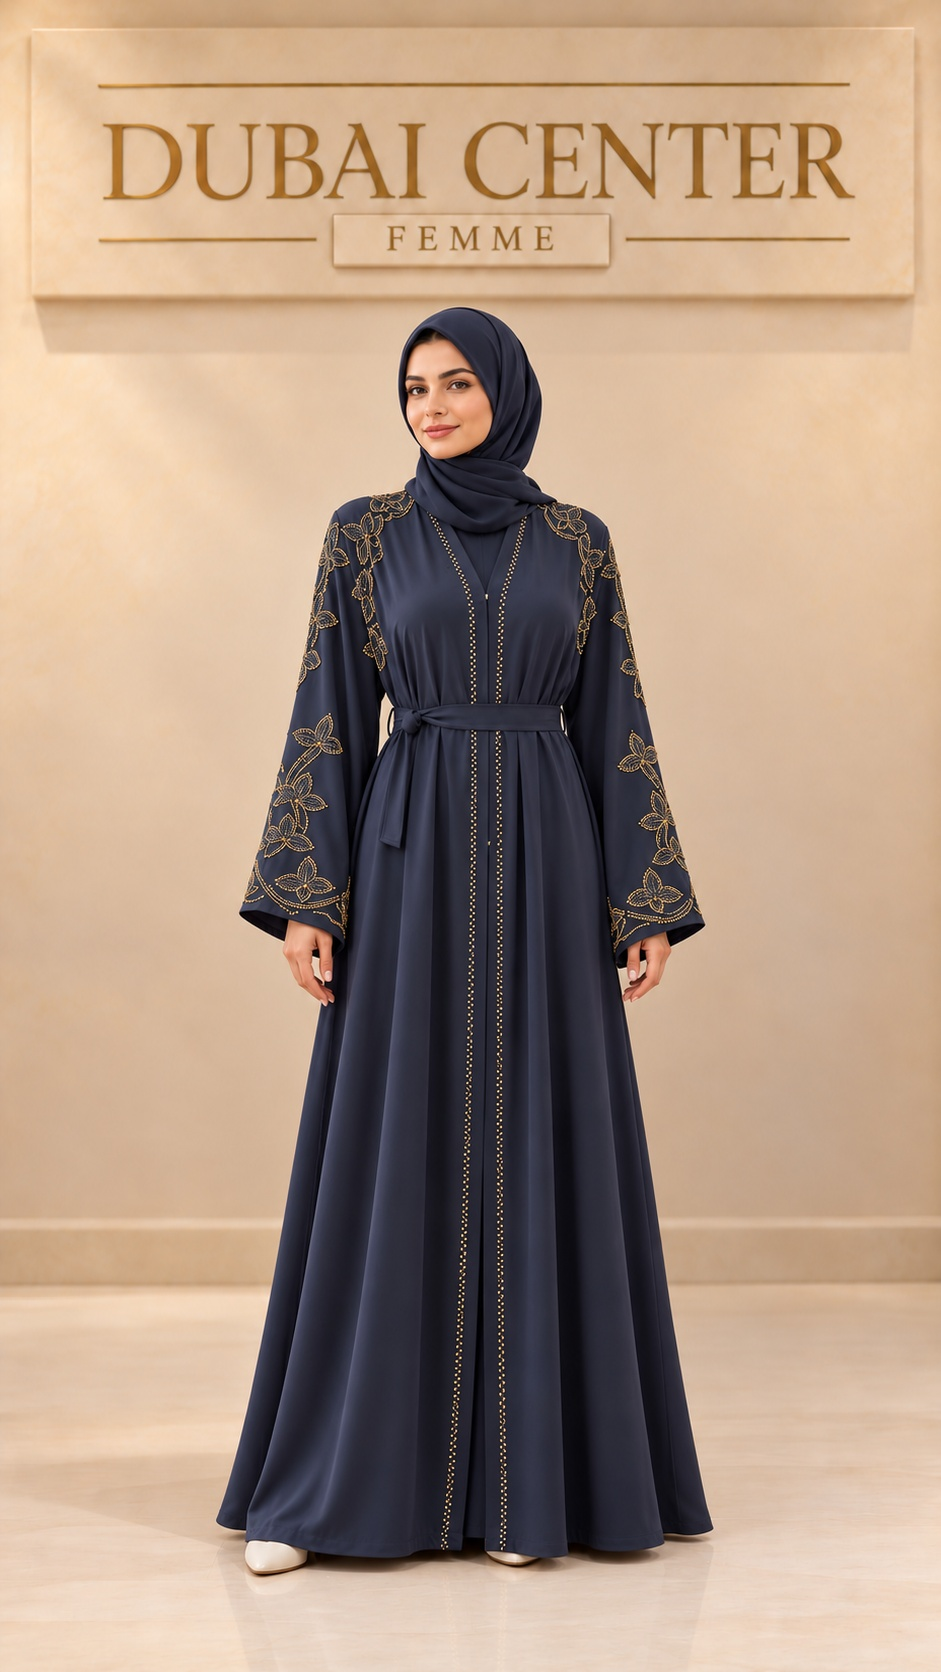
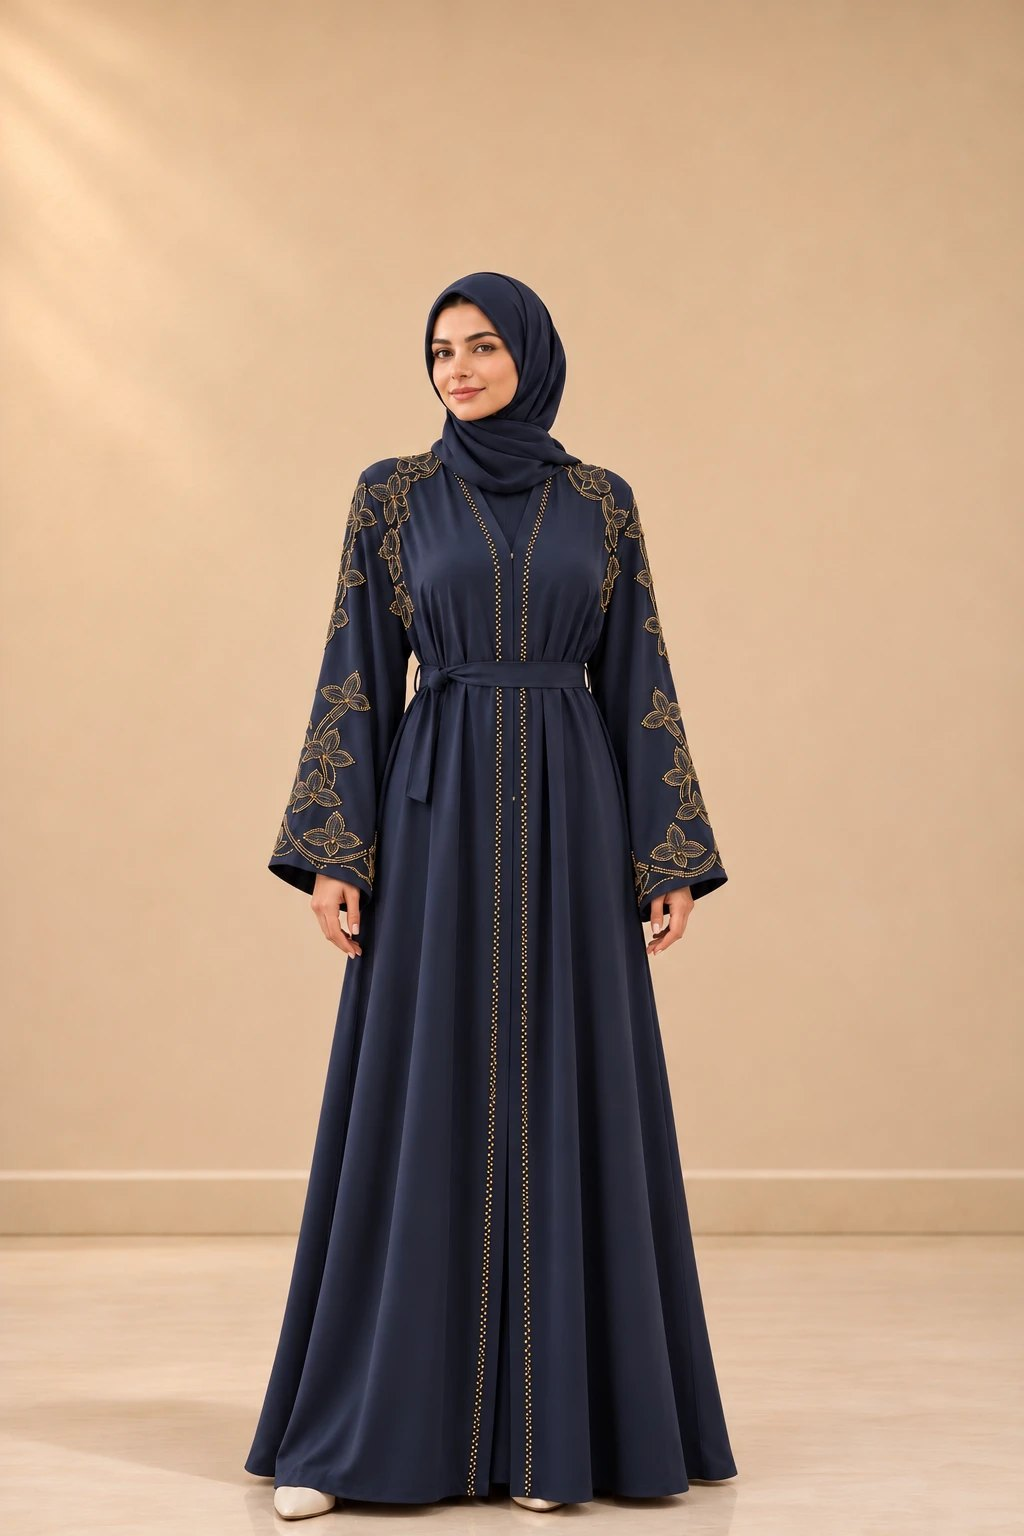
Replace the six "Nos boutiques" photos with the retouched set (#1)
Bazar, Homme, Femme, Librairie and Accessoires & Deco keep their file
names. JF Darna gets its own home_boutique_jfdarna.jpg so the Caftan
Prune product card and product page keep their original photo.
All six are 1024x1536 progressive JPEGs, about half the previous weight.

Claude-Session: https://claude.ai/code/session_01EUDBSK1QjmhVuumJZYRJZB

diff --git a/index.html b/index.html
@@ -1199,7 +1199,7 @@ footer.footer--ink .footer__social a:hover{border-color:var(--brass-light);color
 
         <a href="#boutique-jf-darna" class="boutique" data-open="boutiqueJfDarnaPage" data-hash="boutique-jf-darna" style="--accent:#a8445a;">
           <div class="boutique__photo">
-            <img src="images/jfdarna_caftan_prune.jpg" alt="Caftan prune brodé d'or, JF Darna">
+            <img src="images/home_boutique_jfdarna.jpg" alt="Caftan prune brodé d'or, JF Darna">
           </div>
           <div class="boutique__scrim" aria-hidden="true"></div>
           <div class="boutique__info">
